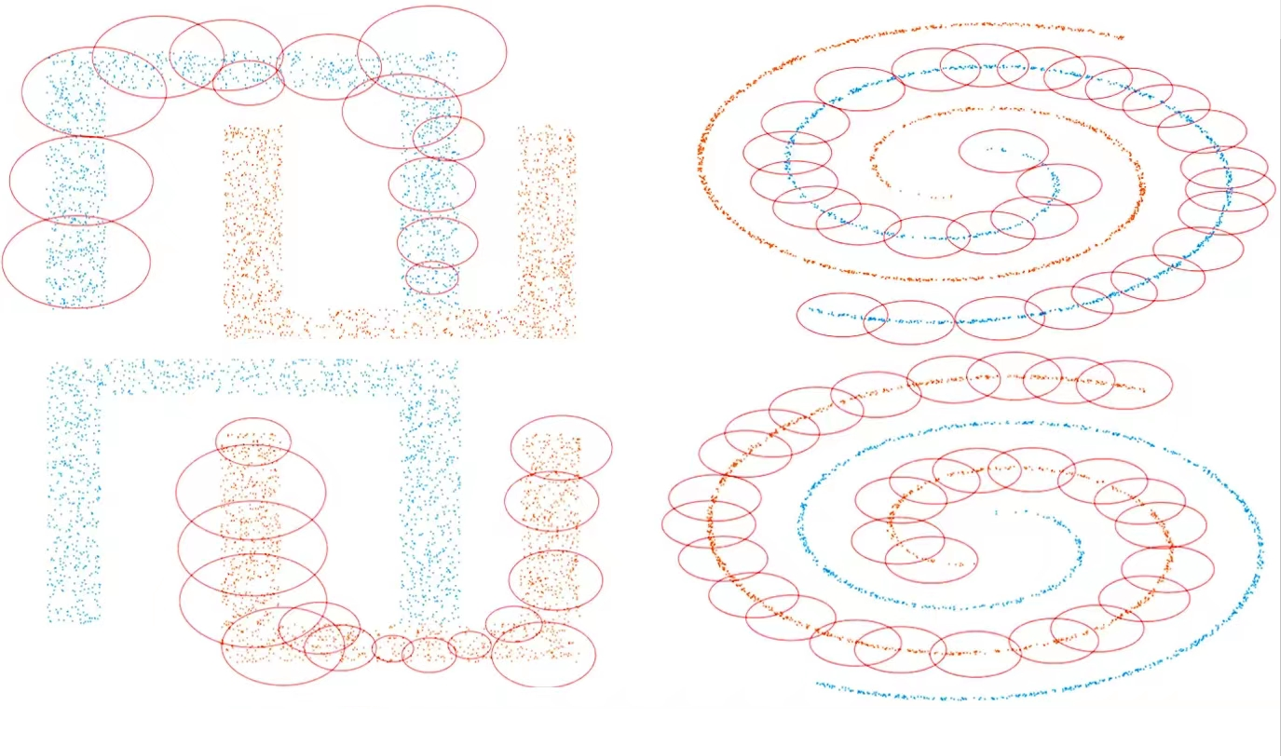
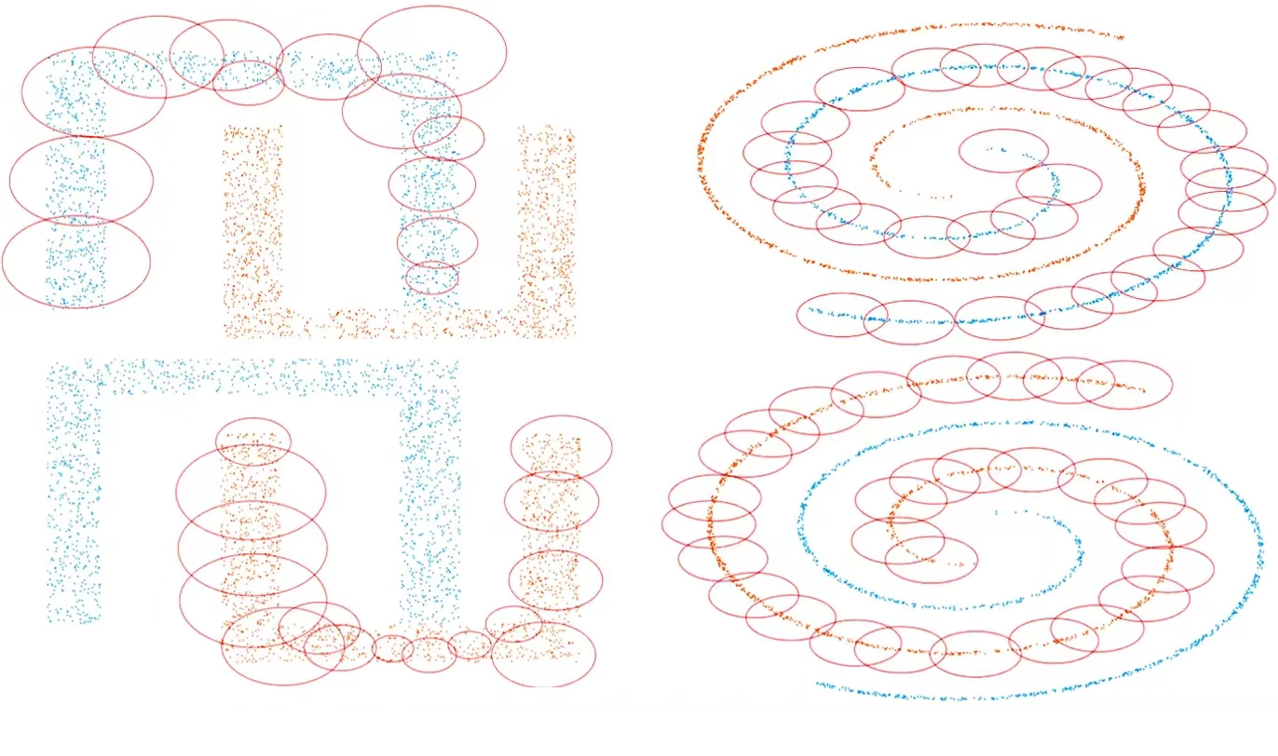
a

diff --git a/_pages/publications.md b/_pages/publications.md
@@ -205,8 +205,10 @@ $$
 where $\Gamma_p = \sum_{i=1}^{m_k}\textrm{sign}({\left\Vert x_i^k-A^{k,p}\right \Vert -r_p})$ for the $p^{\textrm{th}}$ iteration (specifically we rule $\Gamma_0 = m_k$) and $\Delta r_p = \left\Vert r_p-r_{p-1} \right\Vert$. When the iteration of $A^{k}$ reaches the point where $(7)$ is satisfied, it suggests that we should <span style="color:DarkGoldenRod">stop</span> our iteration because we won't get many <span style="color:DarkGoldenRod">marginal</span> covered points even if we keep raising the radius of the prototype's decision region significantly. As a result, it stops us from increasing the radius too much and making the model <span style="color:DarkGoldenRod">non-robust</span>. While $(8)$ is fulfilled, it indicates that the sample points covered by the prototype shift from a sparse region to a condense one, which allows us to discriminate between the <span style="color:DarkGoldenRod">sparsity</span> of samples with prototypes. With backtracking step sizes <span style="color:DarkGoldenRod">$\lambda_{\min} = \min \\{1,\beta/L\\}$</span>, we obtain the <span style="color:DarkGoldenRod">optimal linear convergence $O(1/k^2)$ </span>rate to find the global optimal solution for prototype $A^k$ and some fascinating experiment findings on capturing nonconvex and irregular pattern in classification problem shown as follows,
 
 <div align=center>
-<img src=" /images/04.png " width="50%"><img src=" /images/05.png " width="50%">
+<img src=" /images/02.jpg " width="50%"><img src=" /images/03.jpg " width="50%">
 </div>
-
+<div align=center>
+<img src=" /images/06.png " width="50%"><img src=" /images/03.jpg " width="50%">
+</div>
 <center>Figure 2: AMVQ experiment results on irregular data pattern</center>
 
